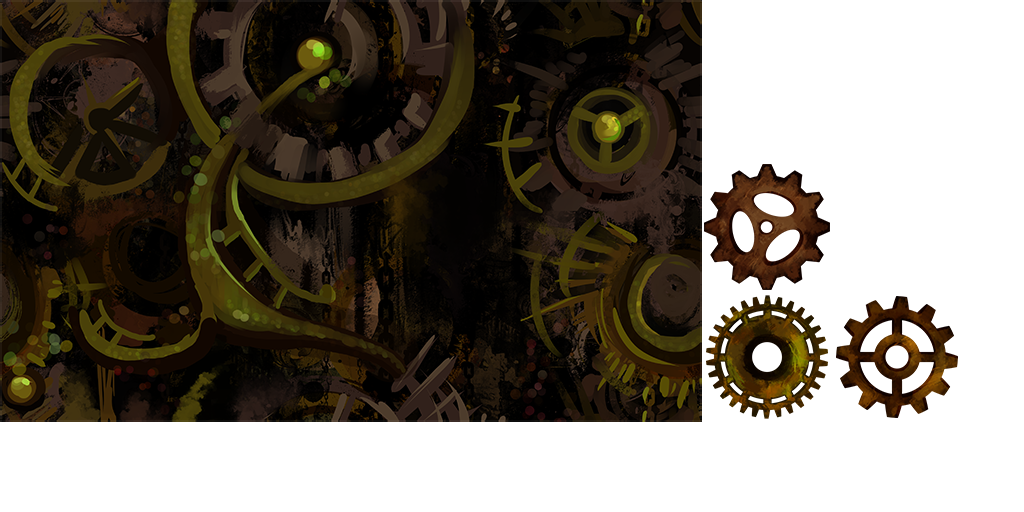
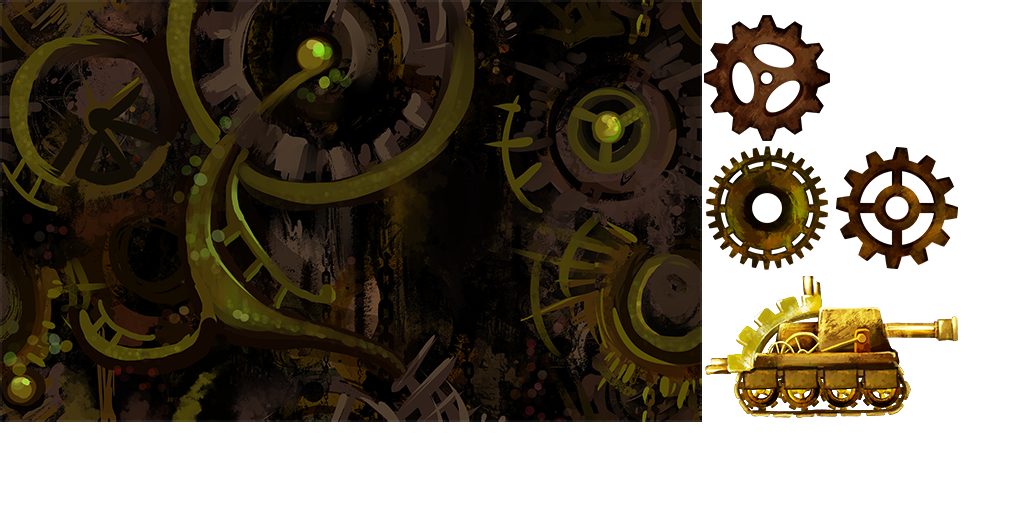
TANK

Changed region(s): [[0.6875, 0.0312, 0.9375, 0.8125]]

diff --git a/throw-objects-game/src/com/dgagamejam/throwobjects/ColliderController.java b/throw-objects-game/src/com/dgagamejam/throwobjects/ColliderController.java
@@ -18,25 +18,40 @@ public class ColliderController extends GameController {
 		
 		//gravity things
 		//check if we are on our level - if we are above it, accelerate down
-		//1. check that our level exists. If not, decrement by 1.
+		//1. check that our level exists. If not, start falling
 		LevelSegment currentLevel = (getModel().level >= 0 ? screen.levels[getModel().level] : null);
-		if(currentLevel == null || !currentLevel.isOnSegment(getModel().x)) {
-			getModel().level--;
+		int lowest = getModel().level;
+		while(lowest > -1 && (currentLevel == null || !currentLevel.isOnSegment(getModel().x))) {
+			//find the lowest available level
+			lowest--;
+			currentLevel = (lowest >= 0 ? screen.levels[lowest] : null);
+		}
+		getModel().level = lowest;
+		//if we are more than 1 level's worth above our level, check above levels for landing.
+		if(model.y - Constants.LEVEL_HEIGHT > Constants.LEVEL_HEIGHT * getModel().level) {
+			int highest = (int)(model.y / Constants.LEVEL_HEIGHT);
+			while(highest > -1 && highest > getModel().level && (screen.levels[highest] == null || !screen.levels[highest].isOnSegment(model.x))) {
+				highest--;
+			}
+			getModel().level = highest;
+		}
+		if(getModel().level == -1) {
+			getModel().level = -999;
 		}
 		
 		boolean descending = false;
 		
 		//if we are above our level, fall down
-		if(getModel().y > getModel().level * Constants.LEVEL_HEIGHT) {
+		if(getModel().y - getModel().collision.height/2f > getModel().level * Constants.LEVEL_HEIGHT) {
 			getModel().verticalVelocity += Constants.GRAVITY * dt;
 			descending = true;
 		}
 		
 		getModel().y += getModel().verticalVelocity * dt;
 		
-		if(descending && getModel().y < getModel().level * Constants.LEVEL_HEIGHT) {
-			
-			getModel().y = getModel().level * Constants.LEVEL_HEIGHT;
+		if(descending && getModel().y - getModel().collision.height/2f < getModel().level * Constants.LEVEL_HEIGHT) {
+			System.out.println("ASD");
+			getModel().y = getModel().level * Constants.LEVEL_HEIGHT + getModel().collision.height/2f;
 			//take fall damage if velocity is high enough
 			if(getModel().verticalVelocity > getModel().fallDamageThreshold) {
 				getModel().hp -= (int)(getModel().verticalVelocity - getModel().fallDamageThreshold);

diff --git a/throw-objects-game/src/com/dgagamejam/throwobjects/VehicleController.java b/throw-objects-game/src/com/dgagamejam/throwobjects/VehicleController.java
@@ -1,11 +1,10 @@
 package com.dgagamejam.throwobjects;
 
+import com.badlogic.gdx.graphics.Color;
+import com.badlogic.gdx.graphics.g2d.SpriteBatch;
+import com.badlogic.gdx.graphics.glutils.ShapeRenderer.ShapeType;
+
 public class VehicleController extends ColliderController {
-	
-	public VehicleController(VehicleObject o) {
-		model = o;
-		view = (VehicleObjectView) o.createView(this);
-	}
 	
 
 	public VehicleObject getModel() {
@@ -18,7 +17,7 @@ public class VehicleController extends ColliderController {
 		model.x += ((VehicleObject)model).velocity * dt;
 		
 		//ascend to a higher level if we should/can
-		if(getModel().y < getModel().level * Constants.LEVEL_HEIGHT) {
+		if(getModel().y - getModel().collision.height/2f < getModel().level * Constants.LEVEL_HEIGHT) {
 			float ascentSlope = Constants.LEVEL_HEIGHT/Constants.ASCENT_LENGTH;
 			float dy = getModel().velocity * dt * ascentSlope;
 			getModel().y += dy;
@@ -38,7 +37,7 @@ public class VehicleController extends ColliderController {
 	
 	public void levelUp(GameScreen screen) {
 		//todo: check if in transition window
-		if(getModel().level > -1 && getModel().level < Constants.LEVEL_COUNT) return;
+		if(getModel().level == Constants.LEVEL_COUNT) return;
 		for(LevelTransition t : screen.levels[getModel().level].transitions) {
 			if(t==null) continue;
 			if(t.up && t.inEpsilon(getModel().x)) {
@@ -50,7 +49,7 @@ public class VehicleController extends ColliderController {
 	
 	public void levelDown(GameScreen screen) {
 		//todo: check if in transition window
-		if(getModel().level > -1 && getModel().level < Constants.LEVEL_COUNT) return;
+		if(getModel().level < 1) return;
 		for(LevelTransition t : screen.levels[getModel().level].transitions) {
 			if(t==null) continue;
 			if(!t.up && t.inEpsilon(getModel().x)) {

diff --git a/throw-objects-game/src/com/dgagamejam/throwobjects/VehicleFactory.java b/throw-objects-game/src/com/dgagamejam/throwobjects/VehicleFactory.java
@@ -1,0 +1,48 @@
+package com.dgagamejam.throwobjects;
+
+import com.badlogic.gdx.graphics.g2d.TextureRegion;
+import com.badlogic.gdx.math.Rectangle;
+
+public class VehicleFactory {
+
+	public static final float TANK_IMAGE_SCALE = 0.5f;
+	
+	public static Rectangle TANK_COLLISION = new Rectangle(-8f,-6f,15,10);
+	
+	static {
+		
+		TANK_COLLISION.set(TANK_COLLISION.x*TANK_IMAGE_SCALE, TANK_COLLISION.y*TANK_IMAGE_SCALE, 
+				TANK_COLLISION.width*TANK_IMAGE_SCALE, TANK_COLLISION.height*TANK_IMAGE_SCALE);
+		
+	}
+	
+	public static final String[] textureNames = new String[] {
+		"tank"
+	};
+	
+	public static final TextureRegion[] textures = new TextureRegion[textureNames.length]; 
+	
+	public static void initialize(GameScreen screen) {
+		int ctr = 0;
+		for(String s: textureNames) {
+			textures[ctr] = screen.imageLibrary.findRegion(s);
+			ctr++;
+		}
+	}
+	
+	public static VehicleController createTank(GameScreen screen, int level, float x, boolean player) {
+		
+		VehicleController gear = (player ? new PlayerObjectController() : new VehicleController());
+		VehicleObject g = new VehicleObject(x, level * Constants.LEVEL_HEIGHT + TANK_COLLISION.height/2f, TANK_IMAGE_SCALE, TANK_COLLISION, level);
+		TextureView tv = new TextureView(gear, textures[0]);
+		
+		gear.model = g;
+		gear.view = tv;
+		tv.controller = gear;
+		
+		//todo: add to scene
+		
+		return gear;
+	}
+	
+}

diff --git a/throw-objects-game/src/com/dgagamejam/throwobjects/VehicleObject.java b/throw-objects-game/src/com/dgagamejam/throwobjects/VehicleObject.java
@@ -12,35 +12,8 @@ public class VehicleObject extends ColliderObject {
 	float acceleration = 12f; 	//10's of px/sec/sec
 	float velocity = 0f; 		//10's of px/sec
 	
-	public VehicleObject(float x, float y, Rectangle collision, int level) {
-		super(x, y, 1f, 0f, collision, level);
-	}
-	
-	public GameObjectView createView(VehicleController c) {
-		return new VehicleObjectView(c);
-	}
-	
-}
-
-class VehicleObjectView extends GameObjectView {
-	
-	public VehicleObjectView(VehicleController ctr) {
-		super(ctr);
-	}
-	
-	ShapeRenderer sr = new ShapeRenderer();
-	
-	public void draw (float dt, SpriteBatch sb, GameScreen screen) {
-		
-		screen.shapeRenderer.begin(ShapeRenderer.ShapeType.FilledRectangle);
-		VehicleObject veh = (VehicleObject)getModel();
-		screen.shapeRenderer.setColor(Color.BLUE);
-		screen.shapeRenderer.filledRect(veh.x + veh.collision.x, veh.y+veh.collision.y, veh.collision.width, veh.collision.height);
-		screen.shapeRenderer.end();
-	}
-
-	@Override
-	public void update(float dt, GameScreen screen) {
+	public VehicleObject(float x, float y, float scale, Rectangle collision, int level) {
+		super(x, y, 0f, scale, collision, level);
 	}
 	
 }

diff --git a/throw-objects-game/src/com/dgagamejam/throwobjects/GameScreen.java b/throw-objects-game/src/com/dgagamejam/throwobjects/GameScreen.java
@@ -62,6 +62,7 @@ public class GameScreen implements Screen {
 		
 		//initialize factories
 		BackgroundFactory.initialize(this);
+		VehicleFactory.initialize(this);
 		
 		//
 		shapeRenderer = new ShapeRenderer();		
@@ -80,9 +81,7 @@ public class GameScreen implements Screen {
 		levels[startLevel].addLevelTransition(50, true);
 		levels[startLevel+1].addLevelTransition(100, false);
 		
-		VehicleObject playercar = new VehicleObject(10f, Constants.LEVEL_HEIGHT*startLevel+1f, new Rectangle(-3,0,6,2), startLevel);
-		
-		player = new PlayerObjectController(playercar);
+		player = (PlayerObjectController)VehicleFactory.createTank(this, startLevel, 0f, true);
 		
 		((VehicleObject)player.model).velocity = 2f;
 	}

diff --git a/throw-objects-game/src/com/dgagamejam/throwobjects/TextureView.java b/throw-objects-game/src/com/dgagamejam/throwobjects/TextureView.java
@@ -11,13 +11,14 @@ public class TextureView extends GameObjectView {
 	}
 
 	TextureRegion texture;
-
+	
 	@Override
 	public void update(float dt, GameScreen screen) {}
 
 	@Override
 	public void draw(float dt, SpriteBatch sb, GameScreen screen) {
-		sb.draw(texture, getModel().x, getModel().y, texture.getRegionWidth()/20, texture.getRegionHeight()/20, 
+		sb.draw(texture, getModel().x - texture.getRegionWidth()/20, getModel().y - texture.getRegionHeight()/20, 
+				texture.getRegionWidth()/20, texture.getRegionHeight()/20, 
 				texture.getRegionWidth()/10, texture.getRegionHeight()/10, getModel().scale, getModel().scale, getModel().rotation);
 	}
 	

diff --git a/throw-objects-game/src/com/dgagamejam/throwobjects/PlayerObjectController.java b/throw-objects-game/src/com/dgagamejam/throwobjects/PlayerObjectController.java
@@ -4,11 +4,6 @@ import com.badlogic.gdx.Gdx;
 import com.badlogic.gdx.Input;
 
 public class PlayerObjectController extends VehicleController {
-
-	public PlayerObjectController(VehicleObject o) {
-		super(o);
-	}
-
 	
 	public void update(float dt, GameScreen screen) {
 		super.update(dt, screen);
